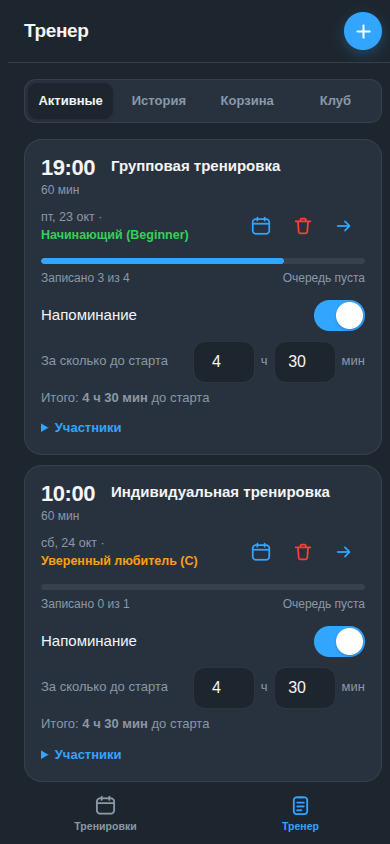
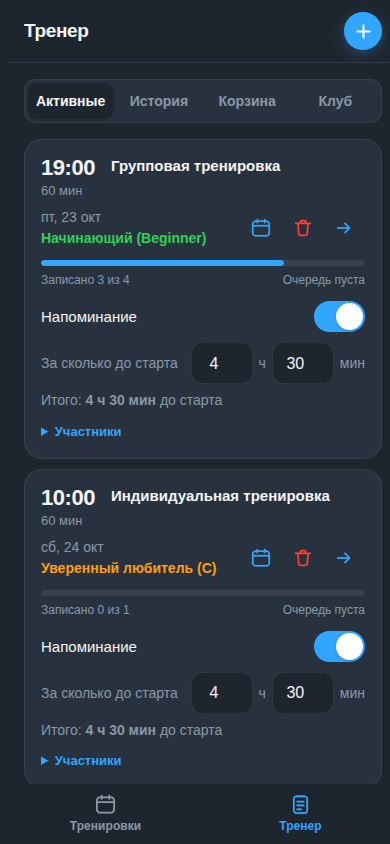
style: enlarge small text and refresh README screenshots

diff --git a/app/templates/base.html b/app/templates/base.html
@@ -67,7 +67,7 @@
     .section { margin-top: 22px; }
     .section:first-child { margin-top: 0; }
     .section-title {
-      font-size: 12px; font-weight: 700; text-transform: uppercase; letter-spacing: .06em;
+      font-size: 13px; font-weight: 700; text-transform: uppercase; letter-spacing: .05em;
       color: var(--hint); margin: 0 4px 8px;
     }
     .section-head { display: flex; align-items: center; justify-content: space-between; gap: 12px; margin-bottom: 8px; }
@@ -96,7 +96,7 @@
     .btn--primary { background: var(--accent); color: var(--accent-text); box-shadow: 0 2px 8px rgba(46,166,255,.22); }
     .btn--danger { background: rgba(255,59,48,.13); color: var(--destructive); }
     .btn--block { width: 100%; }
-    .btn--sm { min-height: 36px; font-size: 13px; border-radius: 9px; padding: 0 11px; }
+    .btn--sm { min-height: 38px; font-size: 14px; border-radius: 9px; padding: 0 12px; }
     .btn > svg { width: 19px; height: 19px; flex: none; }
     .btn:focus-visible, .input:focus-visible, .chip:focus-visible, .tab:focus-visible,
     .segmented button:focus-visible, .header-action:focus-visible,
@@ -140,7 +140,7 @@
     /* ===== Бейджи ===== */
     .badge {
       display: inline-flex; align-items: center; gap: 4px; white-space: nowrap;
-      font-size: 12px; font-weight: 600; padding: 4px 9px; border-radius: 999px;
+      font-size: 13px; font-weight: 600; padding: 4px 9px; border-radius: 999px;
     }
     .badge--success { background: rgba(52,199,89,.16); color: #2fa84f; }
     .badge--warn { background: rgba(255,159,10,.18); color: #c77700; }
@@ -157,28 +157,31 @@
     .avatar-stack { display: flex; align-items: center; }
     .avatar-stack .avatar { margin-left: -11px; box-shadow: 0 0 0 2px var(--secondary); }
     .avatar-stack .avatar:first-child { margin-left: 0; }
-    .avatar--sm { width: 30px; height: 30px; font-size: 12px; }
+    .avatar--sm { width: 30px; height: 30px; font-size: 12.5px; }
     .avatar--animal { background: rgba(120,120,128,.18); font-size: 19px; }
 
     /* ===== Тренировка ===== */
     .t-top { display: flex; gap: 12px; align-items: flex-start; }
     .t-when { flex: none; min-width: 58px; }
     .t-time { font-size: 22px; font-weight: 800; letter-spacing: -.02em; line-height: 1.1; font-variant-numeric: tabular-nums; }
-    .t-duration { font-size: 12px; color: var(--hint); line-height: 1.25; margin-top: 3px; white-space: nowrap; }
+    .t-duration { font-size: 13px; color: var(--hint); line-height: 1.3; margin-top: 3px; white-space: nowrap; }
     .t-info { flex: 1; min-width: 0; }
     .t-title {
       font-weight: 600; font-size: 15px; line-height: 1.3;
       overflow-wrap: break-word;
     }
-    .t-meta { font-size: 12.5px; color: var(--hint); margin-top: 3px; }
+    .t-meta {
+      display: flex; flex-wrap: wrap; align-items: center; gap: 2px 6px;
+      font-size: 14px; color: var(--hint); margin-top: 3px; line-height: 1.35;
+    }
     .t-toolbar { display: flex; align-items: center; justify-content: space-between; gap: 12px; margin-top: 8px; }
     .t-toolbar .t-meta { margin-top: 0; min-width: 0; }
     .t-toolbar__actions { display: flex; gap: 2px; flex: none; }
     .t-occ { text-align: right; flex: none; font-variant-numeric: tabular-nums; }
     .t-occ b { font-size: 18px; }
-    .t-occ .lbl { display: block; font-size: 11.5px; color: var(--hint); }
+    .t-occ .lbl { display: block; font-size: 12.5px; color: var(--hint); }
     .t-people { display: flex; align-items: center; gap: 10px; margin-top: 12px; min-width: 0; }
-    .t-names { font-size: 13px; color: var(--hint); overflow: hidden; text-overflow: ellipsis; white-space: nowrap; }
+    .t-names { font-size: 14px; color: var(--hint); overflow: hidden; text-overflow: ellipsis; white-space: nowrap; }
     .t-actions { margin-top: 12px; display: flex; gap: 8px; }
     .t-actions-col { margin-top: 12px; display: flex; flex-direction: column; gap: 8px; }
 
@@ -190,7 +193,7 @@
       position: sticky; top: calc(env(safe-area-inset-top) + 54px); z-index: 10;
       background: var(--bg); padding: 8px 2px 8px; margin: 0 -2px 8px;
       display: flex; align-items: baseline; justify-content: space-between;
-      font-size: 13px; font-weight: 700; text-transform: uppercase; letter-spacing: .04em; color: var(--hint);
+      font-size: 14px; font-weight: 700; text-transform: uppercase; letter-spacing: .03em; color: var(--hint);
     }
 
     /* ===== Полоса заполнения (тренер) ===== */
@@ -199,7 +202,7 @@
 
     /* ===== Формы ===== */
     .field { display: block; margin-bottom: 12px; }
-    .label { display: block; font-size: 13px; color: var(--hint); font-weight: 500; margin-bottom: 6px; }
+    .label { display: block; font-size: 14px; color: var(--hint); font-weight: 500; margin-bottom: 6px; }
     .input {
       width: 100%; min-height: 48px; padding: 0 14px; border-radius: 12px;
       border: 1px solid var(--line); background: var(--bg); color: var(--text);
@@ -220,7 +223,7 @@
     }
     .segmented button {
       flex: 1; min-height: 36px; border: 0; border-radius: 9px; background: transparent;
-      color: var(--hint); font: inherit; font-weight: 600; font-size: 13px; cursor: pointer;
+      color: var(--hint); font: inherit; font-weight: 600; font-size: 14px; cursor: pointer;
       white-space: nowrap;
     }
     .segmented button.is-active { background: var(--bg); color: var(--text); box-shadow: 0 1px 4px rgba(0,0,0,.16); }
@@ -228,12 +231,12 @@
     /* ===== Строка участника / подсказки ===== */
     .p-row { display: flex; align-items: center; gap: 10px; padding: 9px 0; border-top: 1px solid var(--separator); }
     .p-row:first-child { border-top: 0; }
-    .hint { font-size: 13px; color: var(--hint); }
-    .hm { display: flex; align-items: center; gap: 6px; color: var(--hint); font-size: 13px; }
+    .hint { font-size: 14px; color: var(--hint); }
+    .hm { display: flex; align-items: center; gap: 6px; color: var(--hint); font-size: 14px; }
     .chips { display: flex; gap: 8px; flex-wrap: wrap; margin-top: 8px; }
     .chip {
       border: 0; border-radius: 999px; padding: 8px 12px; background: var(--secondary);
-      color: var(--link); font: inherit; font-size: 13px; font-weight: 600; cursor: pointer;
+      color: var(--link); font: inherit; font-size: 14px; font-weight: 600; cursor: pointer;
     }
     .chip:active { transform: scale(.96); }
     .deleted-card { opacity: .72; }
@@ -263,21 +266,21 @@
     }
     .t-coach:active { opacity: .65; }
     .t-coach__text { flex: 1; min-width: 0; }
-    .t-coach__name { font-weight: 600; font-size: 14.5px; }
+    .t-coach__name { font-weight: 600; font-size: 15px; }
     .t-coach__bio {
-      font-size: 12.5px; color: var(--hint); margin-top: 2px; line-height: 1.3;
+      font-size: 13.5px; color: var(--hint); margin-top: 2px; line-height: 1.35;
       display: -webkit-box; -webkit-line-clamp: 2; -webkit-box-orient: vertical; overflow: hidden;
     }
     .t-coach__action {
       flex: none; display: inline-flex; align-items: center; gap: 4px;
-      font-size: 12.5px; font-weight: 600; color: var(--link); white-space: nowrap;
+      font-size: 13px; font-weight: 600; color: var(--link); white-space: nowrap;
     }
     .t-coach__action svg { width: 16px; height: 16px; }
 
     /* ===== Профиль тренера (страница) ===== */
     .coach-row { display: flex; align-items: center; gap: 12px; }
     .coach-name { font-weight: 600; font-size: 15.5px; }
-    .coach-bio { font-size: 13px; color: var(--hint); margin-top: 3px; line-height: 1.4; }
+    .coach-bio { font-size: 14px; color: var(--hint); margin-top: 3px; line-height: 1.4; }
     .coach-edit { margin-top: 12px; }
 
     /* ===== Строка реестра тренеров ===== */
@@ -290,10 +293,10 @@
     .coach-item__text { flex: 1; min-width: 0; }
     .coach-item__name {
       display: flex; align-items: center; gap: 6px; flex-wrap: wrap;
-      font-size: 14px; font-weight: 600; line-height: 1.3;
+      font-size: 14.5px; font-weight: 600; line-height: 1.3;
     }
     .coach-item__meta {
-      font-size: 12px; color: var(--hint); margin-top: 2px;
+      font-size: 13px; color: var(--hint); margin-top: 2px;
       overflow: hidden; text-overflow: ellipsis; white-space: nowrap;
     }
     .coach-item__actions { display: flex; align-items: center; gap: 8px; flex: none; }
@@ -309,7 +312,7 @@
     .tab {
       flex: 1; min-height: var(--tabbar-h);
       display: flex; flex-direction: column; align-items: center; justify-content: center; gap: 2px;
-      color: var(--hint); text-decoration: none; font-size: 10.5px; font-weight: 600;
+      color: var(--hint); text-decoration: none; font-size: 12px; font-weight: 600;
       letter-spacing: .005em;
     }
     .tab svg { width: 23px; height: 23px; }
@@ -359,9 +362,9 @@
     .profile-card { display: flex; align-items: center; gap: 12px; }
     .profile-card__text { flex: 1; min-width: 0; }
     .profile-card__name { font-weight: 600; font-size: 15.5px; }
-    .profile-card__sub { font-size: 12.5px; color: var(--hint); margin-top: 2px; }
+    .profile-card__sub { font-size: 13.5px; color: var(--hint); margin-top: 2px; }
     .profile-card__about {
-      font-size: 12.5px; color: var(--hint); margin-top: 5px; line-height: 1.35;
+      font-size: 13.5px; color: var(--hint); margin-top: 5px; line-height: 1.35;
       display: -webkit-box; -webkit-line-clamp: 2; -webkit-box-orient: vertical; overflow: hidden;
     }
     .profile-actions { display: flex; gap: 8px; margin-top: 12px; }
@@ -374,7 +377,7 @@
     .setting-row__text { min-width: 0; }
     .form-note { margin: 0 2px 10px; }
     .player-about {
-      font-size: 12.5px; color: var(--hint); line-height: 1.4; margin-top: 8px;
+      font-size: 13.5px; color: var(--hint); line-height: 1.4; margin-top: 8px;
       padding-top: 8px; border-top: 1px solid var(--separator);
     }
     .skeleton {
@@ -529,6 +532,11 @@
       return String(s == null ? '' : s).replace(/[&<>"']/g, c => (
         { '&': '&amp;', '<': '&lt;', '>': '&gt;', '"': '&quot;', "'": '&#39;' }[c]
       ));
+    }
+
+    // Дата и уровень без висящего разделителя при переносе строки.
+    function dateAndLevel(date, level) {
+      return `<span>${esc(fmtDay(date))}</span>${level ? levelPill(level) : ''}`;
     }
 
     // Уровень игры: цвет только у текста, название показываем полностью.

diff --git a/app/templates/coach.html b/app/templates/coach.html
@@ -343,7 +343,7 @@ function activeRow(t) {
       </div>
     </div>
     <div class="t-toolbar">
-      <div class="t-meta">${esc(fmtDay(t.date))}${t.level ? ' · ' + levelPill(t.level) : ''}</div>
+      <div class="t-meta">${dateAndLevel(t.date, t.level)}</div>
       <div class="t-toolbar__actions">
         ${iconBtn(`data-cal="${t.id}"`, 'В календарь', ICON_CAL, 'var(--link)')}
         ${iconBtn(`data-del="${t.id}"`, 'Удалить', ICON_DEL)}
@@ -376,7 +376,7 @@ function historyRow(t) {
       </div>
     </div>
     <div class="t-toolbar">
-      <div class="t-meta">${esc(fmtDay(t.date))}${t.level ? ' · ' + levelPill(t.level) : ''}</div>
+      <div class="t-meta">${dateAndLevel(t.date, t.level)}</div>
       <div class="t-toolbar__actions">
         ${iconBtn(`data-cal="${t.id}"`, 'В календарь', ICON_CAL, 'var(--link)')}
         ${iconBtn(`data-del="${t.id}"`, 'В корзину', ICON_DEL)}
@@ -423,7 +423,7 @@ function clubRow(t) {
       </div>
       <div class="t-info">
         <div class="t-title">${esc(t.type)}</div>
-        <div class="t-meta">${esc(fmtDay(t.date))}${t.level ? ' · ' + levelPill(t.level) : ''}</div>
+        <div class="t-meta">${dateAndLevel(t.date, t.level)}</div>
       </div>
       <div class="t-occ"><b>${t.booked_count}</b><span style="color:var(--hint)">/${t.capacity}</span><span class="lbl">записано</span></div>
     </div>
